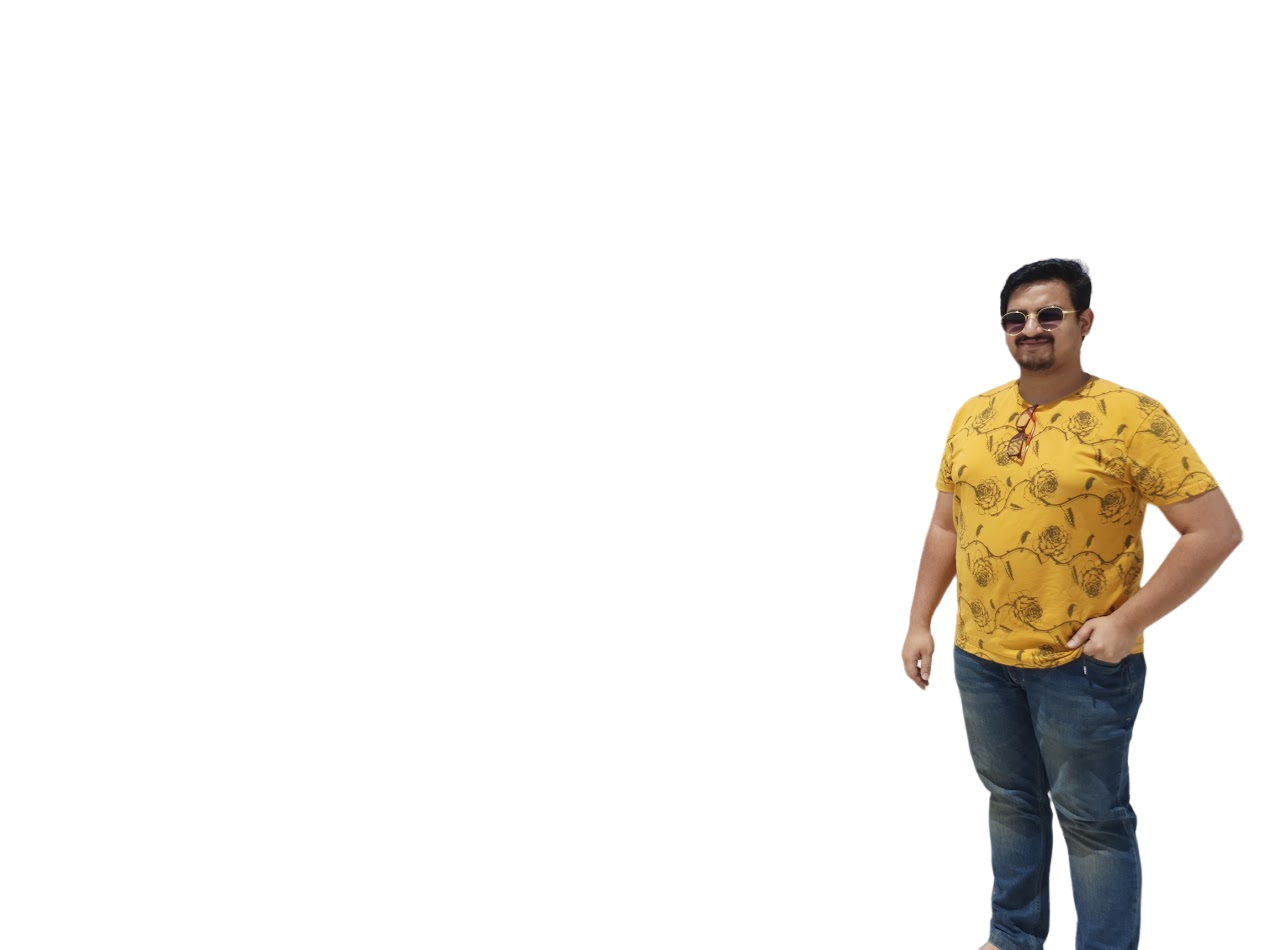
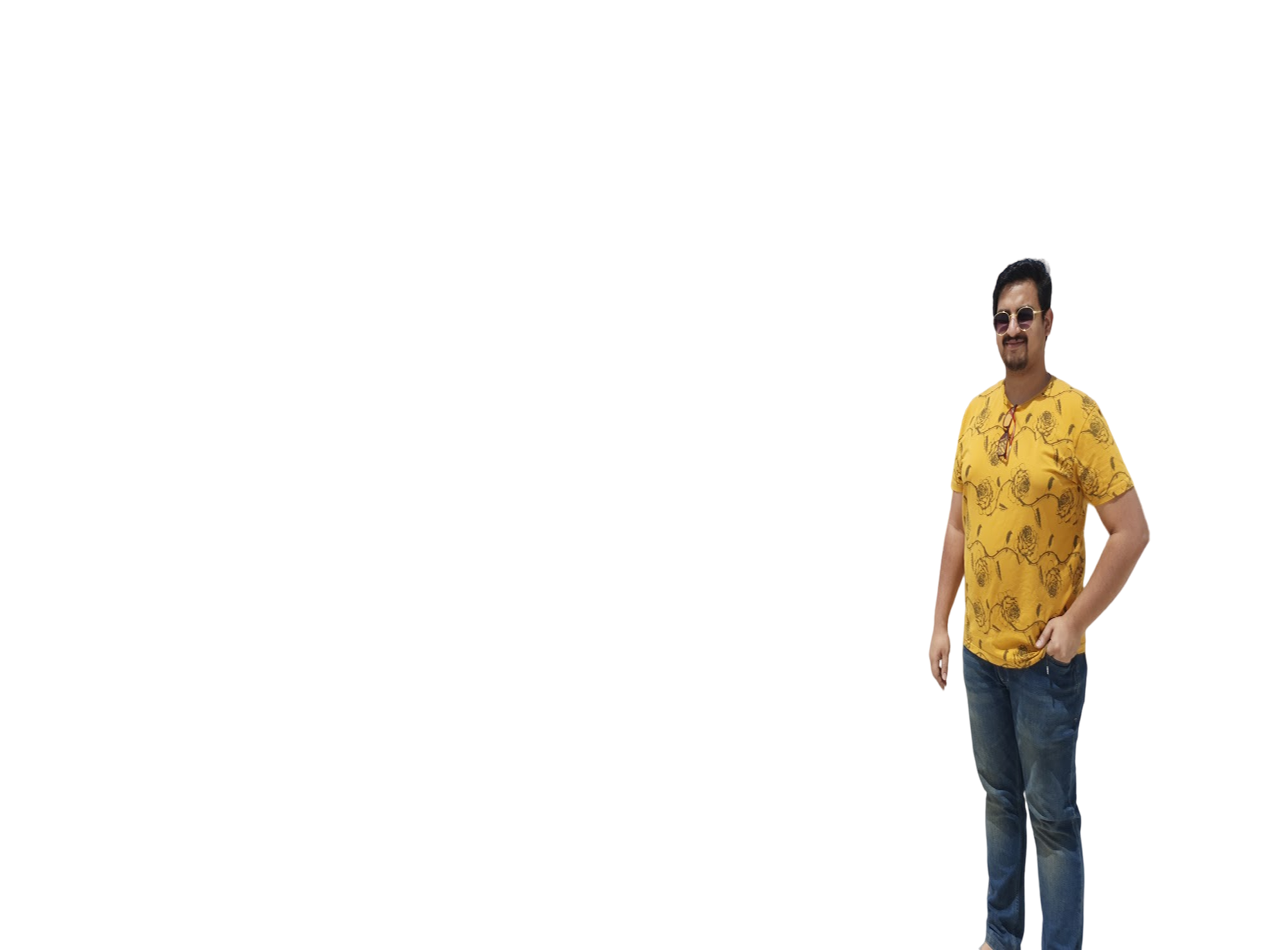
Ecom Express Job Added
- Reduced Intro photo width

Changed region(s): [[0.7085, 0.2747, 0.9858, 1.0]]

diff --git a/src/components/workexp/EcomExpress.js b/src/components/workexp/EcomExpress.js
@@ -1,0 +1,77 @@
+import React from "react";
+import ecom_express_img from "./images/ecom_express.png";
+import CompanyPage from "./companypage_template";
+import "bootstrap/dist/css/bootstrap.min.css";
+
+const EcomExpress = () => {
+  const projects = [
+    {
+      id: "Identifying Geo Codes for an Address",
+      name: "Identifying Geo Codes for an Address",
+      description: (
+        <div class="container">
+          <div class="topic_head">Objective</div>
+          <p>
+            The objective is to predict Geo Codes and the error radius of the
+            destination address for the respective Airway Bill Numbers to ensure
+            accurate and timely delivery.
+          </p>
+          <div class="topic_head">Working Mechanism</div>
+          <p>
+            Predicting Geo codes of an address falls broadly under two
+            categories. For addresses already in the system, we use historical
+            delivery geocodes to predict the precise geo code and error radius.
+            For new addresses, we have trained our custom Address GPT to predict
+            the geocodes using H3 Cells.
+          </p>
+          <div class="topic_head">Development Process</div>
+          <p>
+            For the midoid approach, we used historical delivered geocodes which
+            were labeled as good by our cleaning data pipeline. These geocodes
+            were processed by taking the medians across latitude and longitude.
+            Considering our data can have odd/even number of data points, we can
+            have 1-4 median lat-long combinations.
+          </p>
+          <p>
+            For identifying the best lat-long from these combinations, we
+            calculated the haversine distance from all data points for each
+            candidate. The candidate with the minimum distance for all points is
+            chosen as the final geocode for the address. For error radius, we
+            have different scenarios based on the number of data points in the
+            data.
+          </p>
+          <div class="topic_head">Scope for Improvements</div>
+          <p>
+            Outlier detection can be applied to ensure we have quality
+            historical data to predict on. Clustering techniques can also be
+            used to efficiently find the geocodes.
+          </p>
+        </div>
+      ),
+    },
+  ];
+  const brief = (
+    <div>
+      After an impactful stint at Cars24, moving on to Ecom Express came with a
+      load of responsibilities. I joined at a senior position and quickly took
+      over existing projects, making an impact within a month of joining.
+      Leveraging my experience in writing quality code, I ensured that all my
+      contributions were modular, easy to read, and understandable from the very
+      beginning.
+    </div>
+  );
+  return (
+    <div className="container">
+      <CompanyPage
+        companyname="Ecom Express"
+        designation="Data Scientist 2"
+        duration="June 2024 - Present"
+        brief={brief}
+        image={ecom_express_img}
+        projects={projects}
+      ></CompanyPage>
+    </div>
+  );
+};
+
+export default EcomExpress;

diff --git a/src/components/workexp/Cars24.js b/src/components/workexp/Cars24.js
@@ -238,7 +238,7 @@ const Cars24 = () => {
       contributed to the Fraud Model, identifying crucial fraudulent patterns
       and collaborated with a skilled team under mentorship of{" "}
       <a
-        href="https://www.linkedin.com/in/pankaj-porwal-7b120929/"
+        href="https://www.linkedin.com/in/pankaj-kumar-porwal-7b120929/"
         title="Pankaj Porwal"
         target="_blank"
       >
@@ -268,7 +268,7 @@ const Cars24 = () => {
       >
         Naresh Mehta
       </a>
-      . Currently, I'm involved in aution efficiency to enhance conversions. I
+      . Additionally, I was involved in aution efficiency to enhance conversions. I
       also gained exposure to Fraud Detection, Pricing for Australia Module and
       Stuck Inventory Liquidation, expanding my skill set.{" "}
       <a href="#awards">Recognitions</a> from the organization validate my
@@ -329,7 +329,7 @@ const Cars24 = () => {
       <CompanyPage
         companyname="Cars24"
         designation="Data Scientist"
-        duration="May 2021 - Present"
+        duration="May 2021 - June 2024"
         brief={brief}
         image={cars24_img}
         projects={projects}

diff --git a/src/components/workexp/workexp.js b/src/components/workexp/workexp.js
@@ -3,6 +3,7 @@ import SI_99ROOMZ from "./99roomz";
 import KEC_INTERNATIONAL from "./KEC_International";
 import AIISC from "./AIISC";
 import Cars24 from "./Cars24";
+import EcomExpress from "./EcomExpress";
 import BITS_Project from "./BITS_Project";
 import "./workexp.css";
 
@@ -11,6 +12,8 @@ function WorkExp() {
     <div>
       <div className="workexp" id="workexp">
         <h1>Work Experience</h1>
+        <hr></hr>
+        <EcomExpress />
         <hr></hr>
         <Cars24 />
         <hr></hr>

diff --git a/src/components/Intro/intro.js b/src/components/Intro/intro.js
@@ -17,7 +17,7 @@ const IntroPage = () => {
           <div className="myname">
             <h1 className="typewriter">Hi, I'm Tarun Garg</h1>
             <br></br>
-            <h2 className="typewriter">Data Scientist @ Cars24</h2>
+            <h2 className="typewriter">Data Scientist 2 @ Ecom Express</h2>
           </div>
           <div className="about_me fade-in-left-to-right">
             Welcome to my personal website! I'm a passionate data scientist,

diff --git a/src/components/workexp/BITS_Project.js b/src/components/workexp/BITS_Project.js
@@ -117,7 +117,7 @@ const BITS_Project = () => {
   const prof_name = (
     <div>
       <a href="https://www.linkedin.com/in/santanu-prasad-datta-29a983109/">
-        Guided by : Dr. Santanu Prasad Datta
+        {"Guided by : Dr. Santanu Prasad Datta"}
       </a>
     </div>
   );

diff --git a/src/components/Intro/intro.css b/src/components/Intro/intro.css
@@ -47,10 +47,10 @@
     position: relative;
   }
   .intro_page h2 {
-    margin-left: 20%;
+    margin-left: 15%;
   }
   .typewriter {
-    letter-spacing: 0.1em;
+    letter-spacing: 0.05em;
   }
 }
 
